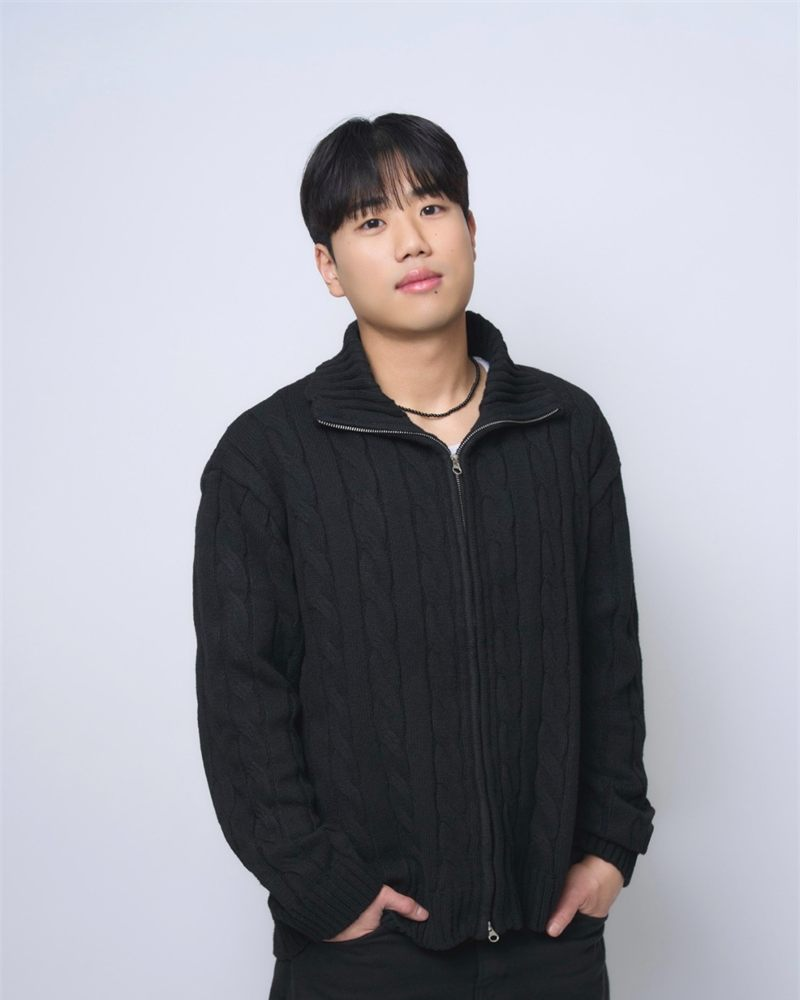
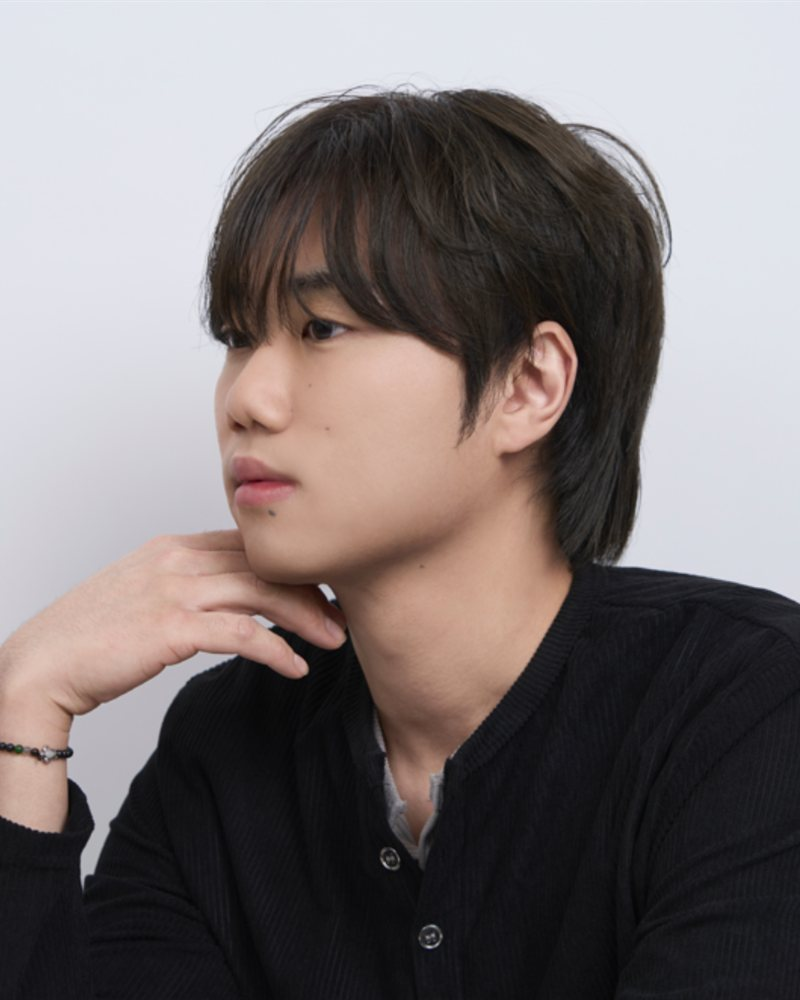
지원 디자이너 프로필 사진 교체

diff --git a/ja/designers/index.html b/ja/designers/index.html
@@ -490,7 +490,7 @@
     <h2 class="sr-only">Dobit Salon Sanbon 2（サンボン）のスタイリスト</h2>
     <div class="designer-grid designer-list">
       <article class="designer-card" id="jiwon">
-        <img src="../../images/designer-jiwon.jpg" alt="Jiwon (デザイナー), Dobit Salon Sanbon 2, Sanbon - テクスチャーカット, リーフカット, シースルーダンディカット, アイロンパーマ, ダウンパーマ" width="800" height="1000" loading="eager" fetchpriority="high">
+        <img src="../../images/designer-jiwon.jpg?v=20261111" alt="Jiwon (デザイナー) プロフィール - Dobit Salon Sanbon 2, Sanbon - テクスチャーカット, リーフカット, シースルーダンディカット, アイロンパーマ, ダウンパーマ" width="800" height="1000" loading="eager" fetchpriority="high">
         <div class="designer-body">
           <div class="role">Designer</div>
           <h3>Jiwon <small>지원</small> <small>デザイナー</small></h3>

diff --git a/designers/index.html b/designers/index.html
@@ -492,7 +492,7 @@
     <h2 class="sr-only">산본 미용실 두빗살롱 산본2호점 디자이너</h2>
     <div class="designer-grid designer-list">
       <article class="designer-card" id="jiwon">
-        <img src="../images/designer-jiwon.jpg" alt="두빗살롱 산본2호점 산본 미용실 지원 디자이너 - 텍스처컷, 리프컷, 시스루 댄디컷, 아이롱펌, 다운펌 전문" width="800" height="1000" loading="eager" fetchpriority="high">
+        <img src="../images/designer-jiwon.jpg?v=20261111" alt="지원 디자이너 프로필 - 두빗살롱 산본2호점 산본 미용실 텍스처컷, 리프컷, 시스루 댄디컷, 아이롱펌, 다운펌 전문" width="800" height="1000" loading="eager" fetchpriority="high">
         <div class="designer-body">
           <div class="role">Designer</div>
           <h3>지원 <small>디자이너</small></h3>

diff --git a/ja/index.html b/ja/index.html
@@ -322,7 +322,7 @@
     </div>
     <div class="designer-grid">
       <article class="designer-card">
-        <img src="../images/designer-jiwon.jpg" alt="Jiwon (デザイナー), Dobit Salon Sanbon 2, Sanbon - テクスチャーカット, リーフカット, シースルーダンディカット, アイロンパーマ, ダウンパーマ" width="800" height="1000" loading="lazy">
+        <img src="../images/designer-jiwon.jpg?v=20261111" alt="Jiwon (デザイナー) プロフィール - Dobit Salon Sanbon 2, Sanbon - テクスチャーカット, リーフカット, シースルーダンディカット, アイロンパーマ, ダウンパーマ" width="800" height="1000" loading="lazy">
         <div class="designer-body">
           <div class="role">Designer</div>
           <h3>Jiwon <small>지원</small> <small>デザイナー</small></h3>

diff --git a/en/designers/index.html b/en/designers/index.html
@@ -490,7 +490,7 @@
     <h2 class="sr-only">Designers at Dobit Salon Sanbon 2, Sanbon</h2>
     <div class="designer-grid designer-list">
       <article class="designer-card" id="jiwon">
-        <img src="../../images/designer-jiwon.jpg" alt="Jiwon (Designer), Dobit Salon Sanbon 2, Sanbon - Texture cut, Leaf cut, See-through dandy cut, Iron perm, Down perm" width="800" height="1000" loading="eager" fetchpriority="high">
+        <img src="../../images/designer-jiwon.jpg?v=20261111" alt="Jiwon (Designer) profile - Dobit Salon Sanbon 2, Sanbon - Texture cut, Leaf cut, See-through dandy cut, Iron perm, Down perm" width="800" height="1000" loading="eager" fetchpriority="high">
         <div class="designer-body">
           <div class="role">Designer</div>
           <h3>Jiwon <small>지원</small> <small>Designer</small></h3>

diff --git a/zh/designers/index.html b/zh/designers/index.html
@@ -490,7 +490,7 @@
     <h2 class="sr-only">Dobit Salon Sanbon 2（山本）发型师</h2>
     <div class="designer-grid designer-list">
       <article class="designer-card" id="jiwon">
-        <img src="../../images/designer-jiwon.jpg" alt="Jiwon (发型师), Dobit Salon Sanbon 2, Sanbon - 纹理剪, 叶片剪, 透视绅士剪, 铁夹烫, 贴发烫" width="800" height="1000" loading="eager" fetchpriority="high">
+        <img src="../../images/designer-jiwon.jpg?v=20261111" alt="Jiwon (发型师) 个人照 - Dobit Salon Sanbon 2, Sanbon - 纹理剪, 叶片剪, 透视绅士剪, 铁夹烫, 贴发烫" width="800" height="1000" loading="eager" fetchpriority="high">
         <div class="designer-body">
           <div class="role">Designer</div>
           <h3>Jiwon <small>지원</small> <small>发型师</small></h3>

diff --git a/index.html b/index.html
@@ -326,7 +326,7 @@
     </div>
     <div class="designer-grid">
       <article class="designer-card">
-        <img src="images/designer-jiwon.jpg" alt="두빗살롱 산본2호점 산본 미용실 지원 디자이너 - 텍스처컷, 리프컷, 시스루 댄디컷, 아이롱펌, 다운펌 전문" width="800" height="1000" loading="lazy">
+        <img src="images/designer-jiwon.jpg?v=20261111" alt="지원 디자이너 프로필 - 두빗살롱 산본2호점 산본 미용실 텍스처컷, 리프컷, 시스루 댄디컷, 아이롱펌, 다운펌 전문" width="800" height="1000" loading="lazy">
         <div class="designer-body">
           <div class="role">Designer</div>
           <h3>지원 <small>디자이너</small></h3>

diff --git a/en/index.html b/en/index.html
@@ -322,7 +322,7 @@
     </div>
     <div class="designer-grid">
       <article class="designer-card">
-        <img src="../images/designer-jiwon.jpg" alt="Jiwon (Designer), Dobit Salon Sanbon 2, Sanbon - Texture cut, Leaf cut, See-through dandy cut, Iron perm, Down perm" width="800" height="1000" loading="lazy">
+        <img src="../images/designer-jiwon.jpg?v=20261111" alt="Jiwon (Designer) profile - Dobit Salon Sanbon 2, Sanbon - Texture cut, Leaf cut, See-through dandy cut, Iron perm, Down perm" width="800" height="1000" loading="lazy">
         <div class="designer-body">
           <div class="role">Designer</div>
           <h3>Jiwon <small>지원</small> <small>Designer</small></h3>

diff --git a/zh/index.html b/zh/index.html
@@ -322,7 +322,7 @@
     </div>
     <div class="designer-grid">
       <article class="designer-card">
-        <img src="../images/designer-jiwon.jpg" alt="Jiwon (发型师), Dobit Salon Sanbon 2, Sanbon - 纹理剪, 叶片剪, 透视绅士剪, 铁夹烫, 贴发烫" width="800" height="1000" loading="lazy">
+        <img src="../images/designer-jiwon.jpg?v=20261111" alt="Jiwon (发型师) 个人照 - Dobit Salon Sanbon 2, Sanbon - 纹理剪, 叶片剪, 透视绅士剪, 铁夹烫, 贴发烫" width="800" height="1000" loading="lazy">
         <div class="designer-body">
           <div class="role">Designer</div>
           <h3>Jiwon <small>지원</small> <small>发型师</small></h3>
